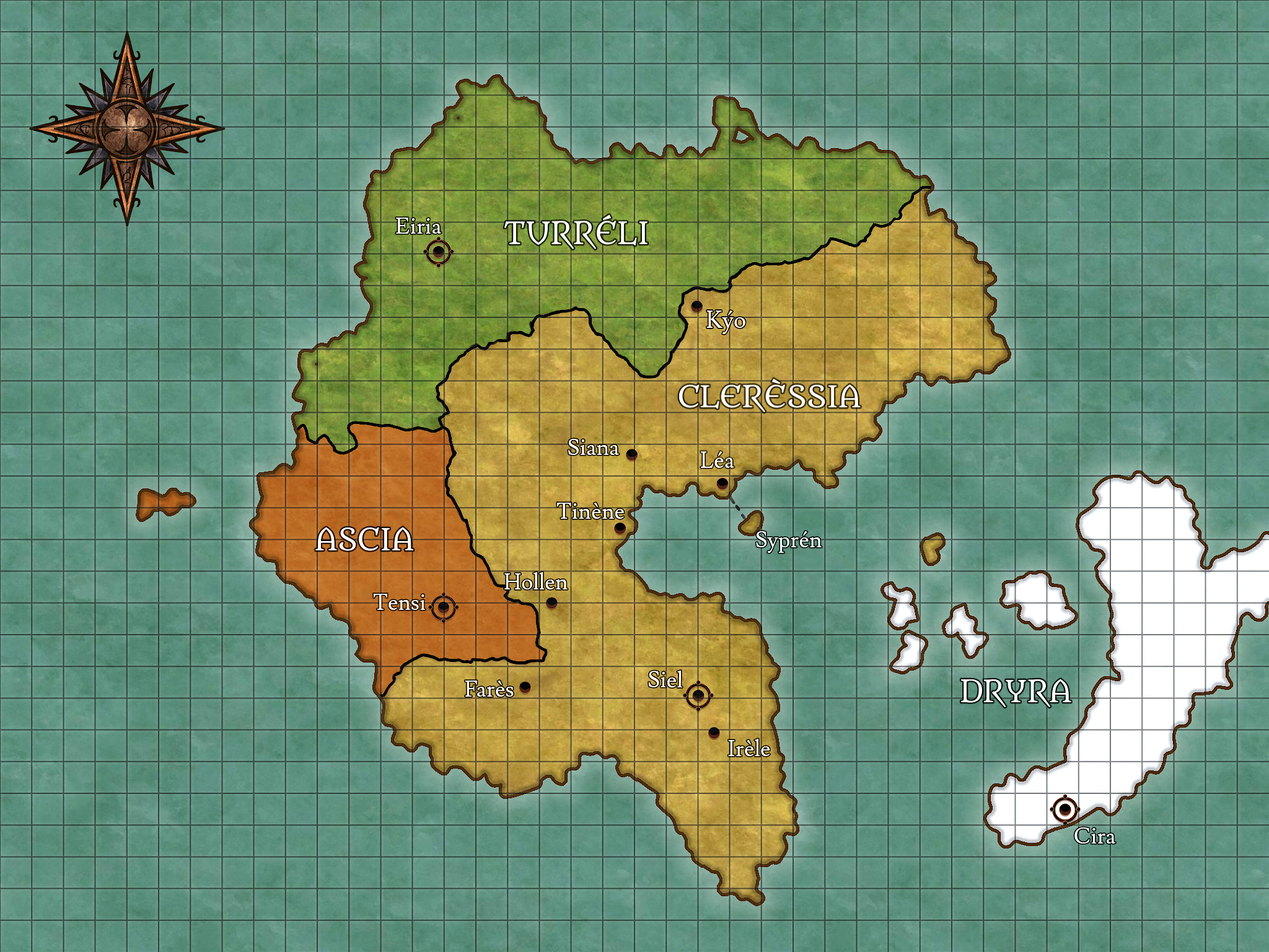
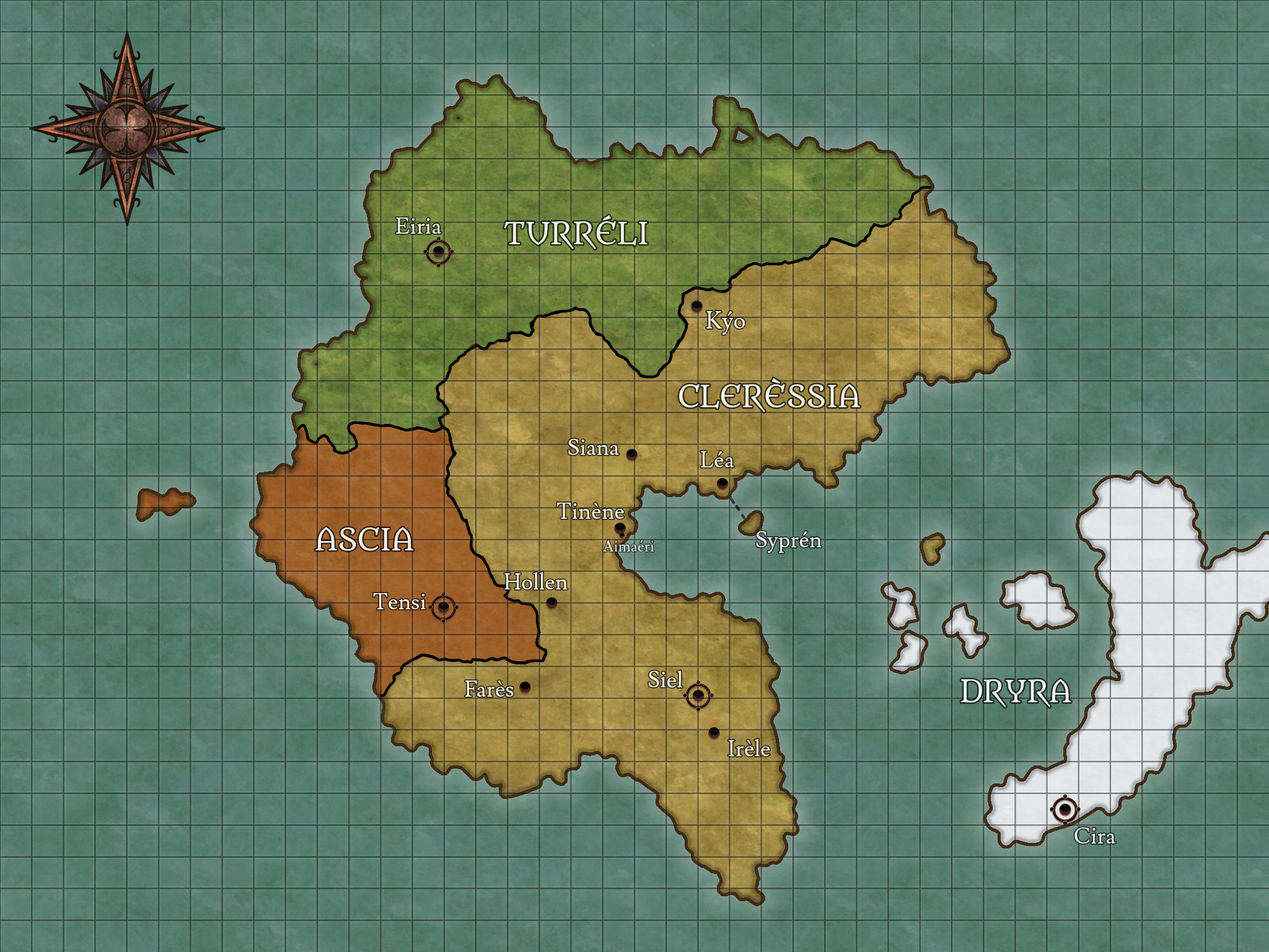
add information about Aimaéri

diff --git a/locations/aimaéri.html b/locations/aimaéri.html
@@ -1,0 +1,122 @@
+<!DOCTYPE html>
+<html>
+
+<head>
+    <title>Aimaéri</title>
+    <meta charset="UTF-8">
+    <link rel="stylesheet" href="../static/base.css">
+    <link rel="stylesheet" href="../static/infobox.css">
+    <link rel="stylesheet" href="../static/tooltip.css">
+</head>
+
+<body>
+
+    <h1>Aimaéri</h1>
+
+    <!-- ---------------------------------------------------------------------
+          - INFOBOX -
+        ------------------------------------------------------------------------- -->
+    <!-- <div class="infobox">
+        <table>
+            <tr>
+                <th>Location</th>
+                <td>Tinène, Clerèssia</td>
+            </tr>
+            <tr>
+                <th>C</th>
+                <td><span class="tooltip">7:17:12 Enna 28 <span>2014.096</span></span></td>
+            </tr>
+            <tr>
+                <th>Target</th>
+                <td>Irèle Train Station</td>
+            </tr>
+
+            <tr>
+                <th>Attack type</th>
+                <td>Explosives (Attempted)</td>
+            </tr>
+            <tr>
+                <th>Deaths</th>
+                <td>0</td>
+            </tr>
+            <tr>
+                <th>Injuries</th>
+                <td>0</td>
+            </tr>
+            <tr>
+                <th>Perpetrators</th>
+                <td>
+                    <a class="null" href="../characters/enason_lambing.html">Enason Lambing</a> (threatened into
+                    action)<br />
+                    Root perpetrator(s) unknown
+                </td>
+            </tr>
+        </table>
+    </div> -->
+
+    <p>
+        <b>Aimaéri</b> is the name of a historical preservation site and public park in Tinène, Clerèssia. The name also refers specifically to the chapel at the core of the castle.
+    </p>
+
+    <h2>History</h2>
+
+    <p>
+        Records indicate that the area now known as Aimaéri was first settled some time during the first grand cycle, likely before <span class="tooltip">1:14:1<span>absolute year 170</span></span>.
+        At that time, it was merely a few houses surrounding a central chapel. Though the settlement would eventually grow to be the city of Tinène—originally named Ithinèn—the chapel was named Aimaéri,
+        meaning "home" or "sanctuary" in old Clerèssian.
+    </p>
+
+    <p>
+        The chapel's stained glass display—a large mural of the ocean scene—dates to the end of the first grand cycle. It is believed to have been added around the year <span class="tooltip">1:22:9<span>absolute year 282</span></span>.
+        According to legend, it was created by the goddess Neyu as a symbol of gratitude toward her followers; however, sources disagree about the details of this event, raising doubt to its validity. The modern consensus seems to be that
+        Neyu did not create the display but, rather, blessed it. (It is also possible for both to be true if, for example, she imparted divine inspiration into its physical creator.)
+    </p>
+
+    <p>
+        By the fourth grand cycle, the area had grown substantially, and a small castle had been built for the local lords. Because of its location (far from Clerèssia's borders with Ascia and Turréli and on the Gulf of Syprén), the
+        castle was established as a defensive fortification, and the nation's monarchs could safely retreat there should the need ever arise. This has occurred only once, from <span class="tooltip">5:13:12 Fis 31<span>1364.133</span></span>
+        to <span class="tooltip">Neyu 02 of the same year<span>1364.308</span></span> when King Ressa III and Queen Lynna escaped from the then-capital Kýo to Tinène during the Turréli invasion.
+    </p>
+
+    <p>
+        When the Clerèssian monarchy was disestablished on <span class="tooltip">7:1:1 Sirelle 01<span>1795.001</span></span>, the castle and surrounding area were converted into a historical preservation site and public park.
+        The chapel still stands at the core of the castle, and the site as a whole draws a large tourist population, especially during summer and winter breaks.
+    </p>
+
+    <h2>Modern Day</h2>
+
+    <p>
+        Despite its status as a historical preservation site, Aimaéri is not known for having any additional level of monitoring or security. Though guided tours and similar events can be arranged, it is more common for visitors
+        to simply explore the area on their own, and the area is only occasionally surveilled. This is in accordance with Tinène's founding creed of accommodating others' needs without hesitation. This high level of altrustic,
+        others-first philosophy has waned over time as other philosophies, such as individualism and modernism, have emerged over the millennia, but given the area's identity as a historical site—and one centered on an ancient
+        chapel—the government and citizens have chosen to continue to apply a historical lens to the area.
+    </p>
+
+    <h3>
+        The following is not public information:
+    </h3>
+    <p>
+        On <span class="tooltip">7:17:12 Fis 19<span>2014.121</span></span>, <a href="../characters/amara_minori.html">Amara Minori</a> unsealed the powers of <a href="../characters/molva_iselle.html">Molva Iselle</a>. In addition,
+        water-goddess Neyu—having imbued the stained glass display with a portion of her soul—imbued Iselle with some of her own power, deflecting Minori's gratitude for the gesture. This allows Iselle, a water Maiden, to grow her
+        own skills more quickly and readily.
+    </p>
+
+    <h2>Trivia</h2>
+
+    <p>
+        <ul>
+            <li>
+                The name <i>Aimaéri</i> derives from a portmanteau of the Japanese <ruby>ただいま<rt style="font-style:italic;">tadaima</rt></ruby> and <ruby>おかえり<rt style="font-style:italic;">okaeri</rt></ruby>.
+                These are commonly-used expressions with understood meanings along the lines of "I'm back" and "Welcome back". This is a reference to a <a href="https://www.youtube.com/watch?v=IA6vJg0Rl14">live stream
+                    by Hololive VTuber Nekomata Okayu on February 15–16, 2021 (JST)</a>, in which she played indie platformer <a href="https://store.steampowered.com/app/1061090/Jump_King/" style="font-style: italic;">Jump King</a>.
+                    Being a rage game in the same vein as <a href="https://store.steampowered.com/app/240720/Getting_Over_It_with_Bennett_Foddy/" style="font-style: italic;">Getting Over It with Bennett Foddy</a>, it features a
+                    large amount of precision platforming where one mistake can send the player a long distance downward. The final segment of the game consists of a chapel, an icy area, and a tower climb.
+                    Because of the level design, a player who falls during the difficult ice or tower sections will fall back into the chapel but (thankfully) no further downward. During the final three or four hours of her
+                    stream, Okayu repeatedly fell into the chapel many dozens of times, and her saying ただいま and/or the chat saying おかえり became something of a running joke.
+            </li>
+        </ul>
+    </p>
+
+</body>
+
+</html>
